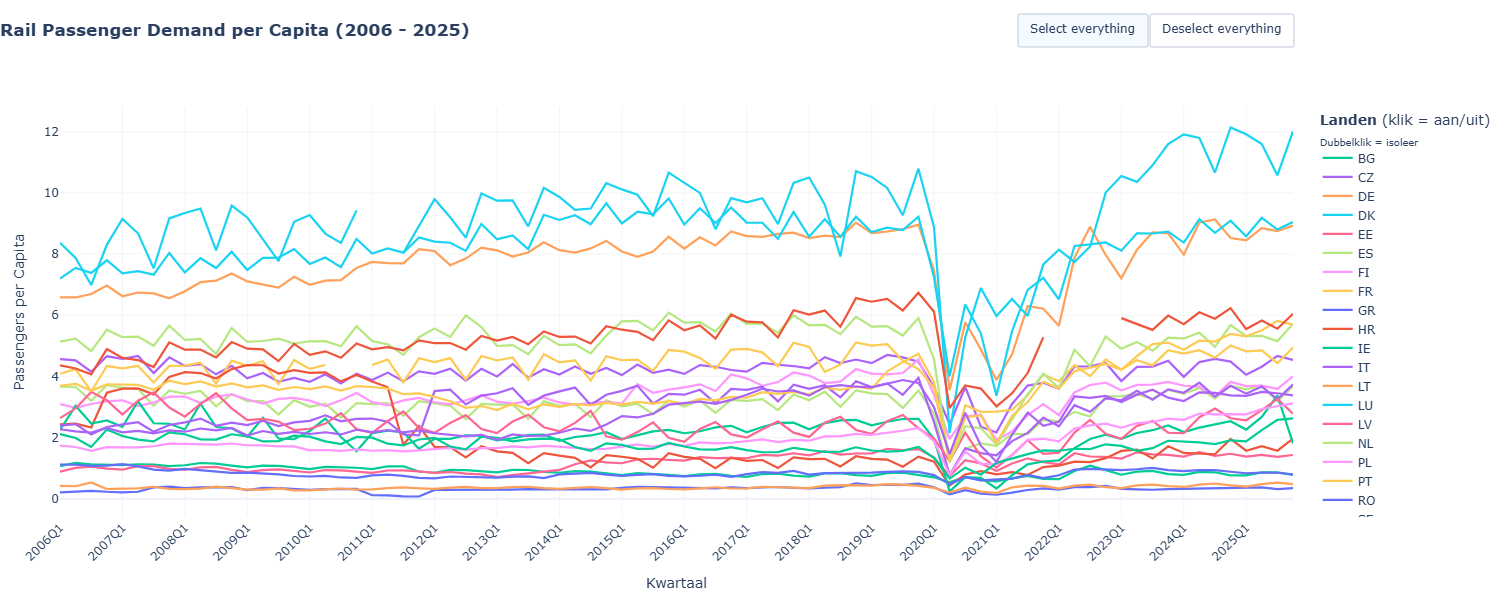
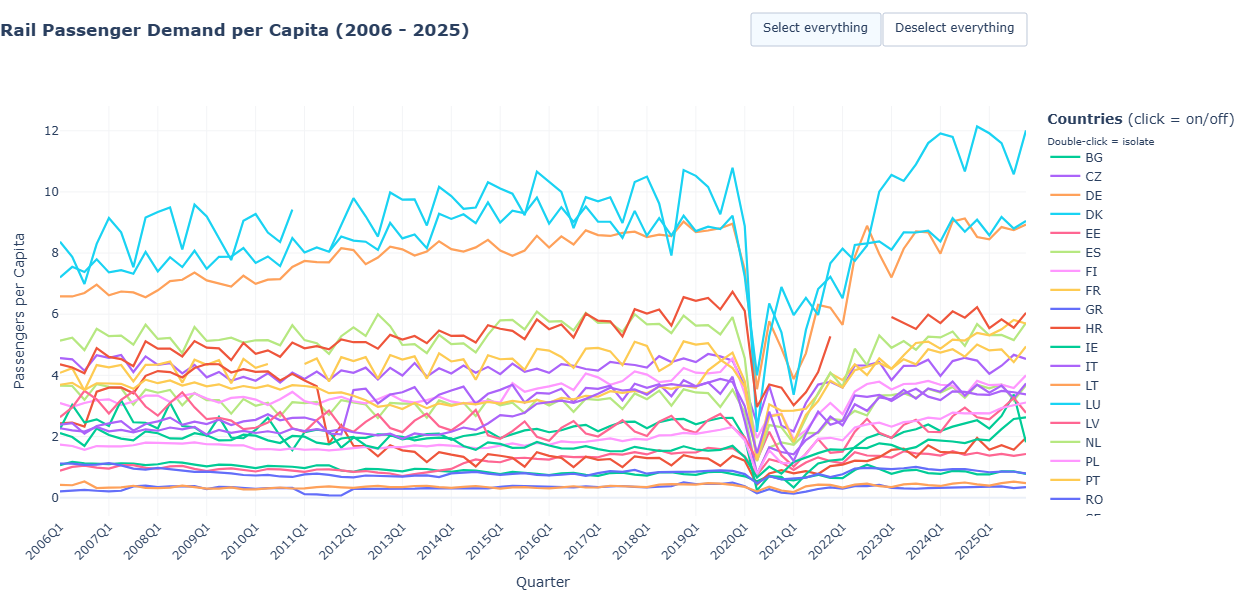
Code cleaning

diff --git a/project_group8.py b/project_group8.py
@@ -2,7 +2,6 @@
 
 #Import necessary packages
 import pandas as pd
-import geopandas as gpd
 import matplotlib.pyplot as plt
 import plotly.graph_objects as go
 import plotly.io as pio
@@ -13,16 +12,18 @@ import statsmodels.formula.api as smf
 import os
 import matplotlib.dates as mdates
 
-# Grographical scope - EU-27 country codes (except Latvia and Malta)
+# Geographical scope - EU-27 country codes (except Latvia and Malta)
 country_codes = ["BG", "CZ", "DE", "DK", "EE", "ES", "FI", "FR", "GR", "HR", "IE", "IT", "LT", "LU", "LV", "NL", "PL", "PT", "RO", "SE", "SI", "SK"]
 name_to_code = {"Bulgaria": "BG", "Czechia": "CZ", "Germany": "DE", "Denmark": "DK", "Estonia": "EE", "Spain": "ES", "Finland": "FI", "France": "FR", "Greece": "GR", "Croatia": "HR", "Ireland": "IE", "Italy": "IT", "Lithuania": "LT", "Luxembourg": "LU", "Latvia": "LV", "Netherlands": "NL", "Poland": "PL", "Portugal": "PT", "Romania": "RO", "Sweden": "SE", "Slovenia": "SI", "Slovakia": "SK",}
 
 #Import datasets
 def csv_file(path, name_to_code):
+    
     df = pd.read_csv(path)
     df = df[["geo", "TIME_PERIOD", "OBS_VALUE"]]
     df["country"] = df["geo"].map(name_to_code)
     df = df[df["country"].isin(country_codes)].copy()
+
     return df
 
 df1 = csv_file('data/rail_passengers_quarters_2006-2025.csv', name_to_code)
@@ -75,10 +76,6 @@ df3 = df3.dropna(subset=['date'])
 # Filter only months of 2006-2025
 df3 = df3[(df3["date"].dt.year >= 2006) & (df3["date"].dt.year <= 2025)].copy()
 
-# # Change the country names to codes
-# df3["country"] = df3["geo"].map(name_to_code)
-# df3 = df3[df3["country"].isin(country_codes)].copy()
-
 # Change months to quarters
 df3["quarter"] = df3["date"].dt.to_period("Q")
 
@@ -98,11 +95,6 @@ df2["year"] = df2["year"].astype(int)
 # Filter only years 2006-2025
 df2 = df2[(df2["year"] >= 2006) & (df2["year"] <= 2025)].copy()
 
-# # Change the country names to codes
-# df2["country"] = df2["geo"].map(name_to_code)
-# df2 = df2[df2["country"].isin(country_codes)].copy()
-# df2 = df2.drop(columns="geo")
-
 # Change years to quarters (yearly population is repeated for each quarter)
 population_quarters = pd.DataFrame({"quarter": pd.period_range("2006Q1", "2025Q4", freq="Q")})
 population_quarters["year"] = population_quarters["quarter"].dt.year
@@ -112,18 +104,12 @@ population_Q = population_quarters.merge(df2, on="year", how="left")
 population_Q = (population_Q.groupby(["country", "quarter"])["population"].mean().unstack())
 
 
-
 # Rail passengers dataset preparation
 df1 = df1.rename(columns={"TIME_PERIOD": "quarter", "OBS_VALUE": "rail_passengers"})
 
 # Filter only quarters of 2006-2025
 df1["quarter"] = pd.PeriodIndex(df1["quarter"].str.replace("-", "", regex=False), freq="Q")
 df1 = df1[(df1["quarter"].dt.year >= 2006) & (df1["quarter"].dt.year <=2025)].copy()
-
-# change the country names to codes
-# df1["country"] = df1["geo"].map(name_to_code)
-# df1 = df1[df1["country"].isin(country_codes)].copy()
-# df1 = df1.drop(columns="geo")
 
 # New dataframe with rail passengers per quarter
 rail_passengers_Q = (df1.groupby(["country", "quarter"])["rail_passengers"].mean().unstack())
@@ -133,84 +119,31 @@ rail_passengers_Q = rail_passengers_Q * 1000
 rail_passengers_per_capita_Q = rail_passengers_Q / population_Q # this value is the number of trips per person per quarter
 
 
+#Chloropleth maps function
+
+def plot_choropleth(data, color_scale="RdBu", value_range=None, title=None, showscale=True):
+    data = data.copy()
+    value_column = data.columns[-1]
+    data[value_column] = pd.to_numeric(data[value_column], errors="coerce")
+    fig = px.choropleth(data, locations="country", locationmode="ISO-3", color=value_column, color_continuous_scale=color_scale, range_color=value_range, scope="europe", title=title, hover_data = {value_column: ":.3f"} )
+    fig.update_geos(showland=True, landcolor="lightgrey")
+    fig.update_coloraxes(showscale=showscale)
+    fig.show()
 
 
-# map of countries used
-# YOUR_CODE_HERE (mika)
+
+# Geographical scope map
+map_df = pd.DataFrame({"country": country_codes})
+map_df["country"] = map_df["country"].map(lambda code: pycountry.countries.get(alpha_2=code).alpha_3)
+map_df["selected"] = 1
+
+plot_choropleth(map_df, color_scale=["lightgrey", "steelblue"], value_range=(0, 1), title="Geographical Scope of the Analysis", showscale=False)
 
 
 
-url = (
-    "https://raw.githubusercontent.com/nvkelso/"
-    "natural-earth-vector/master/geojson/"
-    "ne_110m_admin_0_countries.geojson"
-)
+#Timeseries graphs for rail passenger data and fuel prices (per country)
 
-world = gpd.read_file(url)
-
-selected_countries = [
-    "Bulgaria",
-    "Czech Republic",
-    "Denmark",
-    "Germany",
-    "Estonia",
-    "Ireland",
-    "Greece",
-    "Spain",
-    "France",
-    "Croatia",
-    "Italy",
-    "Latvia",
-    "Lithuania",
-    "Luxembourg",
-    "Netherlands",
-    "Poland",
-    "Portugal",
-    "Romania",
-    "Slovenia",
-    "Slovakia",
-    "Finland",
-    "Sweden"
-]
-
-selected = world[world["NAME_EN"].isin(selected_countries)]
-
-print("Number of selected countries:", len(selected))
-
-fig, ax = plt.subplots(figsize=(12, 9))
-
-world.plot(
-    ax=ax,
-    color="lightgrey",
-    edgecolor="white",
-    linewidth=0.6
-)
-
-selected.plot(
-    ax=ax,
-    color="steelblue",
-    edgecolor="black",
-    linewidth=0.8
-)
-
-ax.set_xlim(-12, 40)
-ax.set_ylim(34, 72)
-
-ax.set_title(
-    "Selected European Countries",
-    fontsize=18,
-    fontweight="bold",
-    pad=15
-)
-
-ax.set_axis_off()
-
-plt.tight_layout()
-plt.show()
-
-#timeseries graphs for rail passenger data and fuel prices (per country)
-
-def plot_interactive_timeseries(df, title="Time Series Overview (2006 - 2025)", y_axis_title="Waarde", renderer="jupyterlab"):
+def plot_interactive_timeseries(df, title="Time Series Overview (2006 - 2025)", y_axis_title="Value", renderer="jupyterlab"):
 
     pio.renderers.default = "browser"
     if isinstance(df.columns, pd.PeriodIndex) or any("Q" in str(col) for col in df.columns):
@@ -222,7 +155,7 @@ def plot_interactive_timeseries(df, title="Time Series Overview (2006 - 2025)", 
    
     fig = go.Figure()
 
-    # Background (grey lines
+    # Background (grey lines)
     for country in df_plot.columns:
         fig.add_trace(go.Scatter(x=df_plot.index, y=df_plot[country], mode='lines', line=dict(color='#E5E7EB', width=1.5), hoverinfo='skip', showlegend=False))
 
@@ -235,9 +168,9 @@ def plot_interactive_timeseries(df, title="Time Series Overview (2006 - 2025)", 
 
     fig.update_layout(title=dict(text=f"<b>{title}</b>", x=0.0, xanchor="left", y=0.96),
         template="plotly_white", hovermode="closest",
-        xaxis=dict(title="Kwartaal", tickangle=-45, nticks=20, showgrid=True, gridcolor="#F3F4F6"),
+        xaxis=dict(title="Quarter", tickangle=-45, nticks=20, showgrid=True, gridcolor="#F3F4F6"),
         yaxis=dict(title=y_axis_title, showgrid=True, gridcolor="#F3F4F6"),
-        legend=dict(title=dict(text="<b>Landen</b> (klik = aan/uit)<br><sub>Dubbelklik = isoleer</sub>"), itemclick="toggle", itemdoubleclick="toggleothers", traceorder="normal"),
+        legend=dict(title=dict(text="<b>Countries</b> (click = on/off)<br><sub>Double-click = isolate</sub>"), itemclick="toggle", itemdoubleclick="toggleothers", traceorder="normal"),
         updatemenus=[dict(type="buttons",direction="left", x=1.0, y=1.15, xanchor="right", yanchor="bottom",
         buttons=[dict(label="Select everything", method="restyle", args=[{"visible": [True] * n_countries}, list(range(n_countries, 2 * n_countries))]), dict(label="Deselect everything", method="restyle",
         args=[{"visible": ["legendonly"] * n_countries}, list(range(n_countries, 2 * n_countries))])])],
@@ -259,7 +192,8 @@ plot_interactive_timeseries(
     y_axis_title="Euro per Liter"
 )
 
-#Correlation analysis
+
+# Correlation analysis
 def plot_correlation_groups(rail_data, fuel_data, n=3):
     # Calculate correlations for each country
     correlation = rail_data.corrwith(fuel_data, axis=1).dropna()
@@ -307,49 +241,31 @@ def plot_correlation_groups(rail_data, fuel_data, n=3):
 
 
 correlation = plot_correlation_groups(rail_passengers_per_capita_Q, real_fuel)
-print(correlation)
-
-
-#Chloropleth maps function
-
-def plot_choropleth(data, color_scale="RdBu", value_range=None, title=None):
-    data = data.copy()
-    value_column = data.columns[-1]
-    data[value_column] = pd.to_numeric(data[value_column], errors="coerce")
-    fig = px.choropleth(data, locations="country", locationmode="ISO-3", color=value_column, color_continuous_scale=color_scale, range_color=value_range, scope="europe", title=title, hover_data = {value_column: ":.3f"} )
-    fig.update_geos(showland=True, landcolor="lightgrey")
-    fig.show()
-
 
 correlation.index = correlation.index.map(lambda code: pycountry.countries.get(alpha_2=code).alpha_3)
 
 #Choropleth map for correlation
 correlation = pd.to_numeric(correlation, errors="coerce")
-
 correlation_df = correlation.rename("correlation").reset_index()
 correlation_df.columns = ["country", "correlation"]
-
 correlation_df["correlation"] = correlation_df["correlation"].astype(float)
 plot_choropleth(correlation_df, color_scale="icefire_r", value_range=(-1,1), title="Rail demand per capita and real fuel prices correlation")
 
 
-#Choropleth map for log-log
+# Log-Log Regression
 
-# log-log regression (Seongje)
-
-
-# 1.yoy log changes 
+# Calculate year-on-year log changes 
 d_ln_rail = np.log(rail_passengers_per_capita_Q).diff(4, axis=1)
 d_ln_fuel = np.log(real_fuel).diff(4, axis=1)
 
-# 2.df for statsmodels
+# Dataframe for statsmodels
 reg_df = pd.DataFrame({
     "d_ln_rail": d_ln_rail.stack(),
     "d_ln_fuel": d_ln_fuel.stack()
 }).reset_index()
 reg_df.columns = ["country", "quarter", "d_ln_rail", "d_ln_fuel"]
 
-# 3. covid
+# Specify COVID-19 period
 covid = (reg_df["quarter"] >= pd.Period("2020Q1", "Q")) & (reg_df["quarter"] <= pd.Period("2023Q1", "Q"))
 datasets = {
     "excl. COVID": reg_df[~covid].dropna().copy(),
@@ -359,8 +275,9 @@ datasets = {
 for name, data in datasets.items():
     print(f"{name}: {len(data)} observations, {data['country'].nunique()} countries")
 
-# 4. pooled regression
+# Estimate pooled regression
 pooled_results = {}
+
 for name, data in datasets.items():
     res = smf.ols("d_ln_rail ~ d_ln_fuel + C(country)", data=data).fit(
         cov_type="cluster", cov_kwds={"groups": data["country"]})
@@ -372,17 +289,21 @@ pooled_compare = pd.DataFrame(pooled_results).T
 print("\nPooled regression with country fixed effects:")
 print(pooled_compare.round(3))
 
-# 5. regression per country
+# Regression per country
 def per_country_regression(data):
     results = []
-    for c, d in data.groupby("country"):
-        res = smf.ols("d_ln_rail ~ d_ln_fuel", data=d).fit(cov_type="HAC", cov_kwds={"maxlags": 4})
-        ci = res.conf_int().loc["d_ln_fuel"]
-        results.append({"country": c, "elasticity": res.params["d_ln_fuel"],
+    
+    for country, country_data in data.groupby("country"):
+        country_data = country_data.sort_values("quarter")
+        model = smf.ols("d_ln_rail ~ d_ln_fuel", data=country_data).fit(cov_type="HAC", cov_kwds={"maxlags": 4})
+        ci = model.conf_int().loc["d_ln_fuel"]
+        results.append({"country": country, "elasticity": model.params["d_ln_fuel"],
                         "ci_low": ci[0], "ci_high": ci[1],
-                        "p_value": res.pvalues["d_ln_fuel"], "r2": res.rsquared, "n": int(res.nobs)})
+                        "p_value": model.pvalues["d_ln_fuel"], "r2": model.rsquared, "n": int(model.nobs)})
+    
     return pd.DataFrame(results).set_index("country")
 
+#Estimate regression specifications
 country_results = {name: per_country_regression(data) for name, data in datasets.items()}
 
 country_compare = pd.concat(country_results, axis=1)
@@ -390,9 +311,10 @@ country_compare = country_compare.sort_values(("excl. COVID", "elasticity"))
 print("\nRegression per country:")
 print(country_compare.loc[:, (slice(None), ["elasticity", "p_value"])].round(3))
 
-# 6. plots (two versions per country + pooled)
+# Regression plots (two versions per country + pooled)
 order = country_results["excl. COVID"].sort_values("elasticity").index
 y = np.arange(len(order))
+
 styles = {"excl. COVID": (-0.15, "steelblue"), "incl. COVID": (0.15, "tab:red")}
 
 fig, ax = plt.subplots(figsize=(7,9))
@@ -434,7 +356,11 @@ for name, results in country_results.items():
 quarters_all = pd.period_range("2006Q1", "2025Q4", freq="Q")
 
 # Defining event windows: periods, colors 
-events = {"2008 financial crisis": ("2008Q3", "2009Q4"), "2014 Crimea crisis": ("2014Q3", "2015Q1"), "COVID-19": ("2020Q1", "2022Q2"), "War in Ukraine": ("2022Q1", "2023Q4")}
+events = {
+    "2008 financial crisis": ("2008Q3", "2009Q4"),
+    "2014 Crimea crisis": ("2014Q3", "2015Q1"),
+    "COVID-19": ("2020Q1", "2022Q2"),
+    "War in Ukraine": ("2022Q1", "2023Q4")}
 event_periods = {name: (pd.Period(s), pd.Period(e)) for name, (s, e) in events.items()}
 
 # Consistent layout for all countries over all quarters
@@ -443,7 +369,7 @@ price_index_Q = inflation_Q.reindex(index=country_codes, columns=quarters_all)
 rail_per_capita_Q = rail_passengers_per_capita_Q.reindex(index=country_codes, columns=quarters_all)
 pop_Q = population_Q.reindex(index=country_codes, columns=quarters_all)
 
-# Real fuel price calculation with price index base = 100
+# Real fuel price calculation adjusted for inflation (price index base = 100)
 real_fuel_Q = fuel_nominal_Q / (price_index_Q / 100) 
 
 # Year-over-year % change calculation
@@ -510,9 +436,8 @@ def historical_changes_plot(series, event_periods, title, color, filename):
     
     return fig, ax
 
-# Graphs with calls to the function
 
-# Changes in rail passenger trips per capita graph
+# Year-on-year changes in rail passenger trips per capita graph
 fig_rail, ax_rail = historical_changes_plot(
     series=rail_mean,
     event_periods=event_periods,
